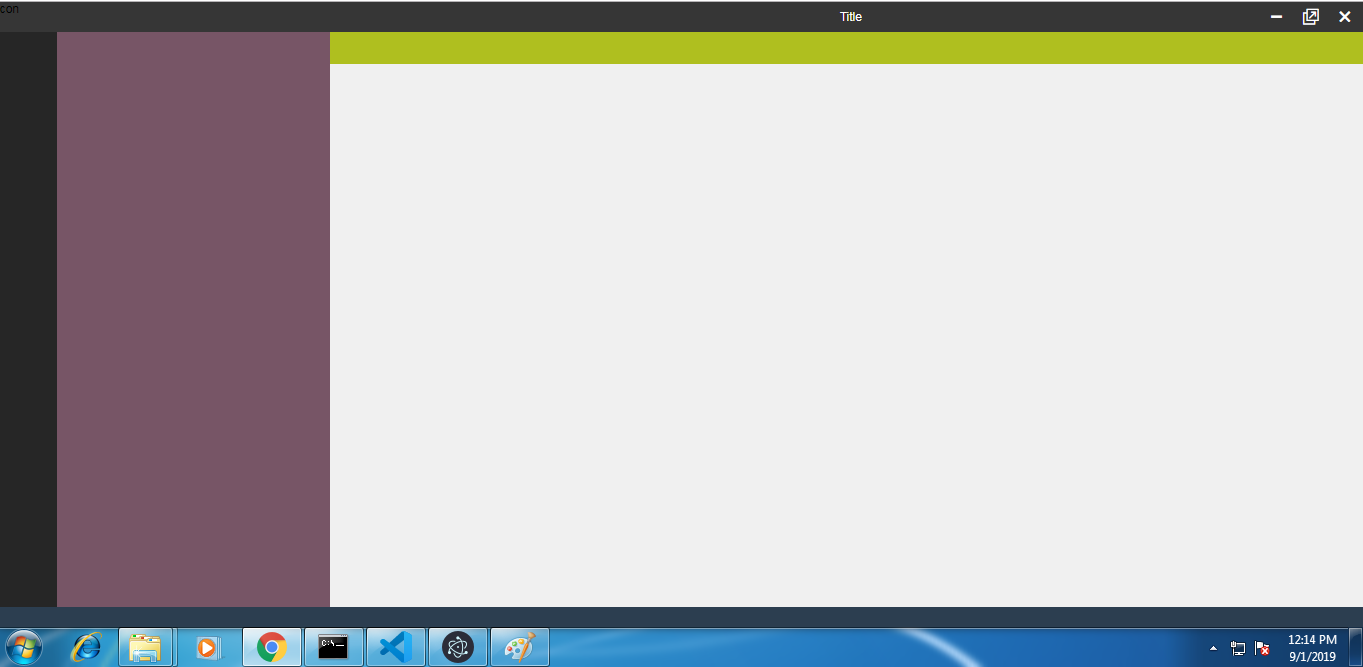
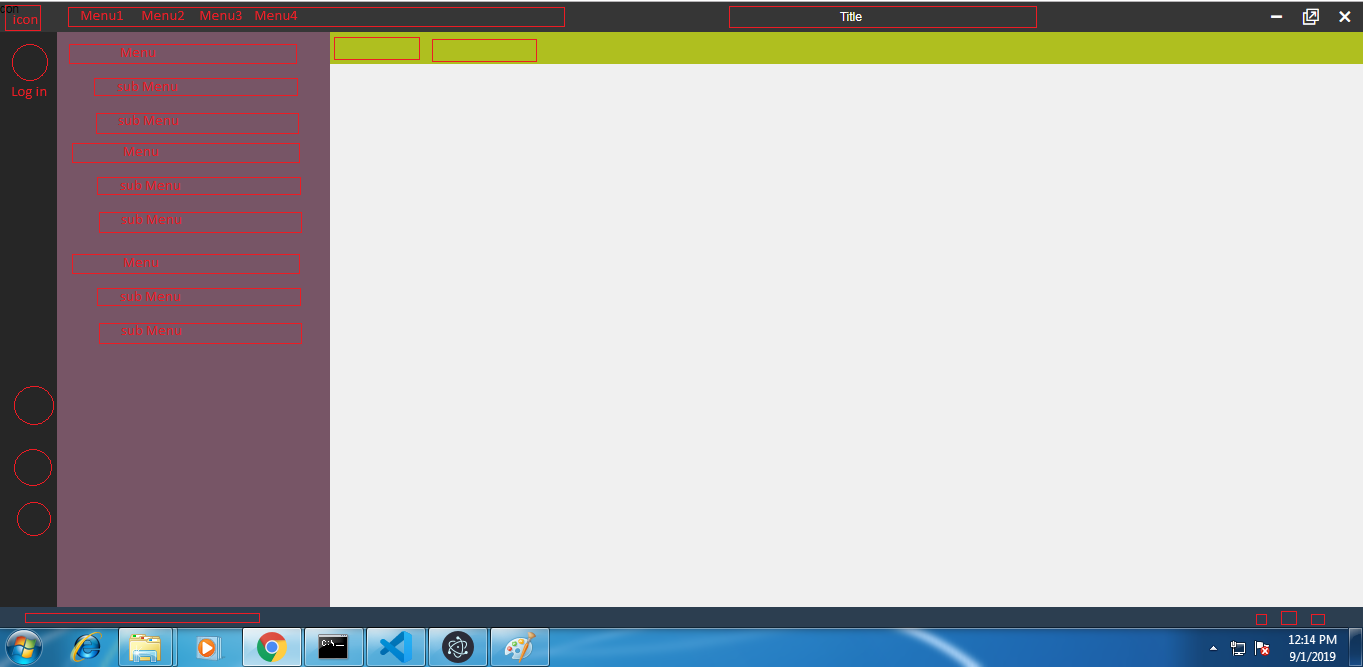
todo list updated

diff --git a/todolist.md b/todolist.md
@@ -1,0 +1,9 @@
+###  Future Planning 
+* Title Bar 
+* Side tool bar  
+* Status Bar 
+* Menus 
+
+*all read marking are todo*
+![todo list](src/asset/image/todo.png)
+
